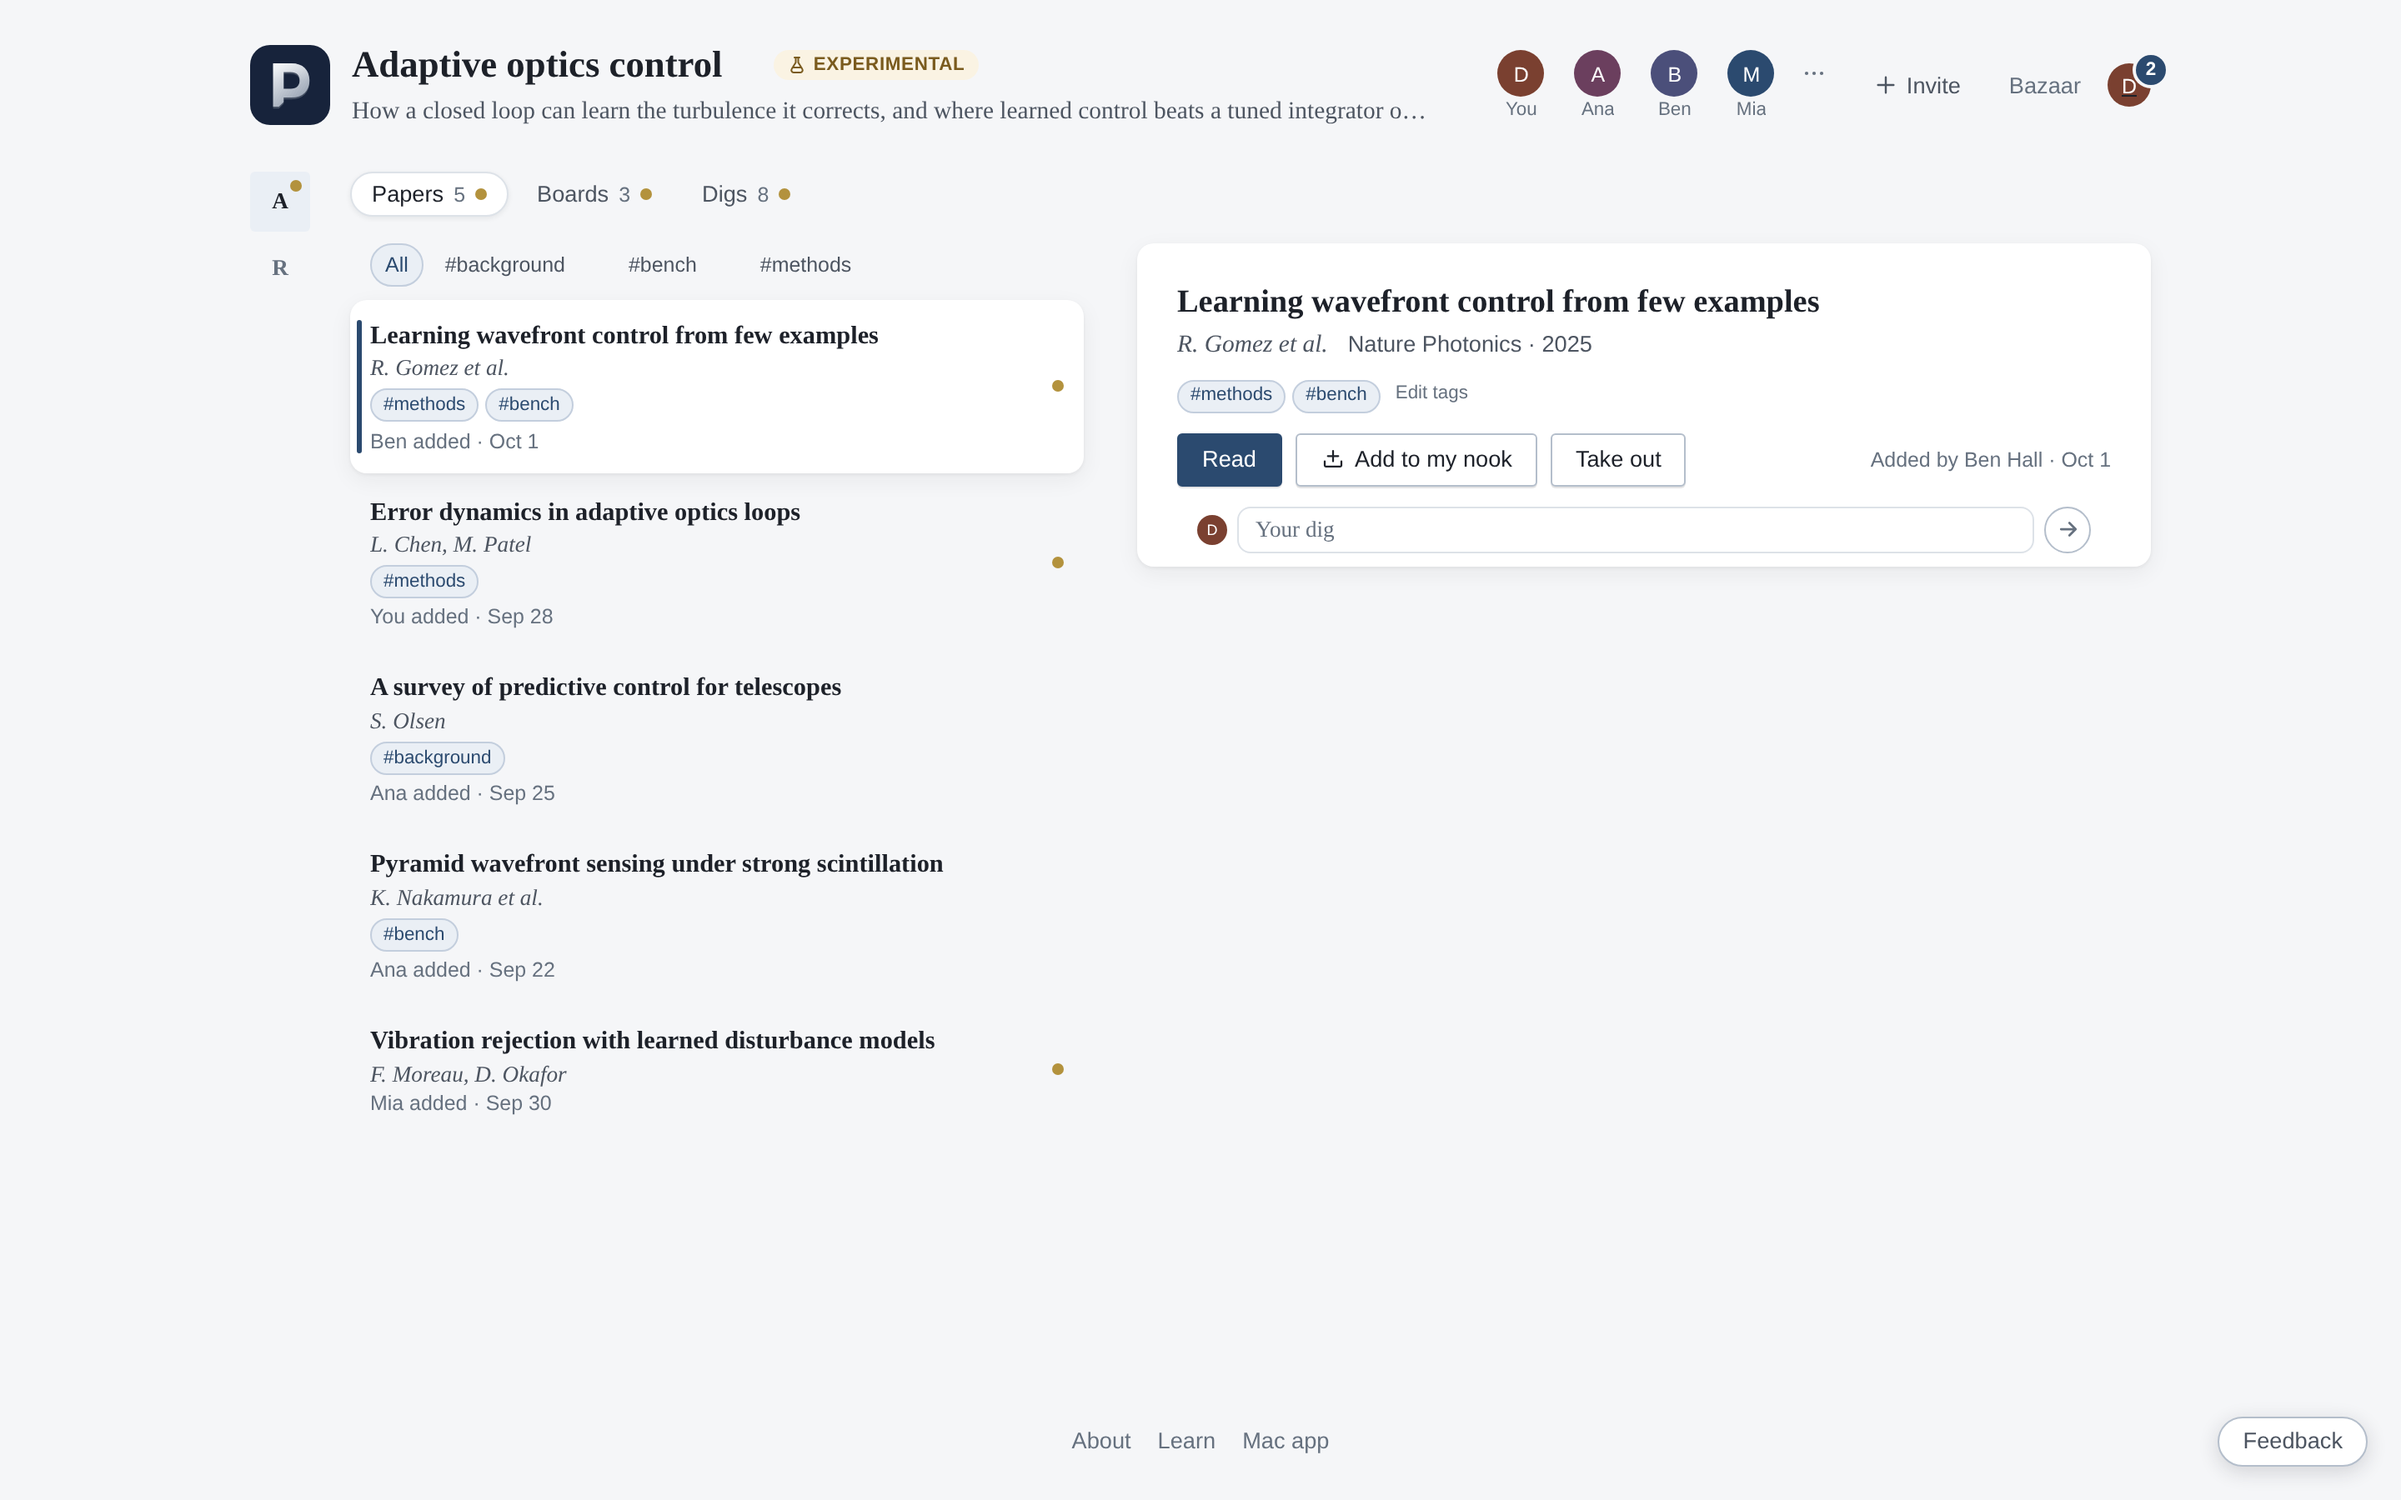
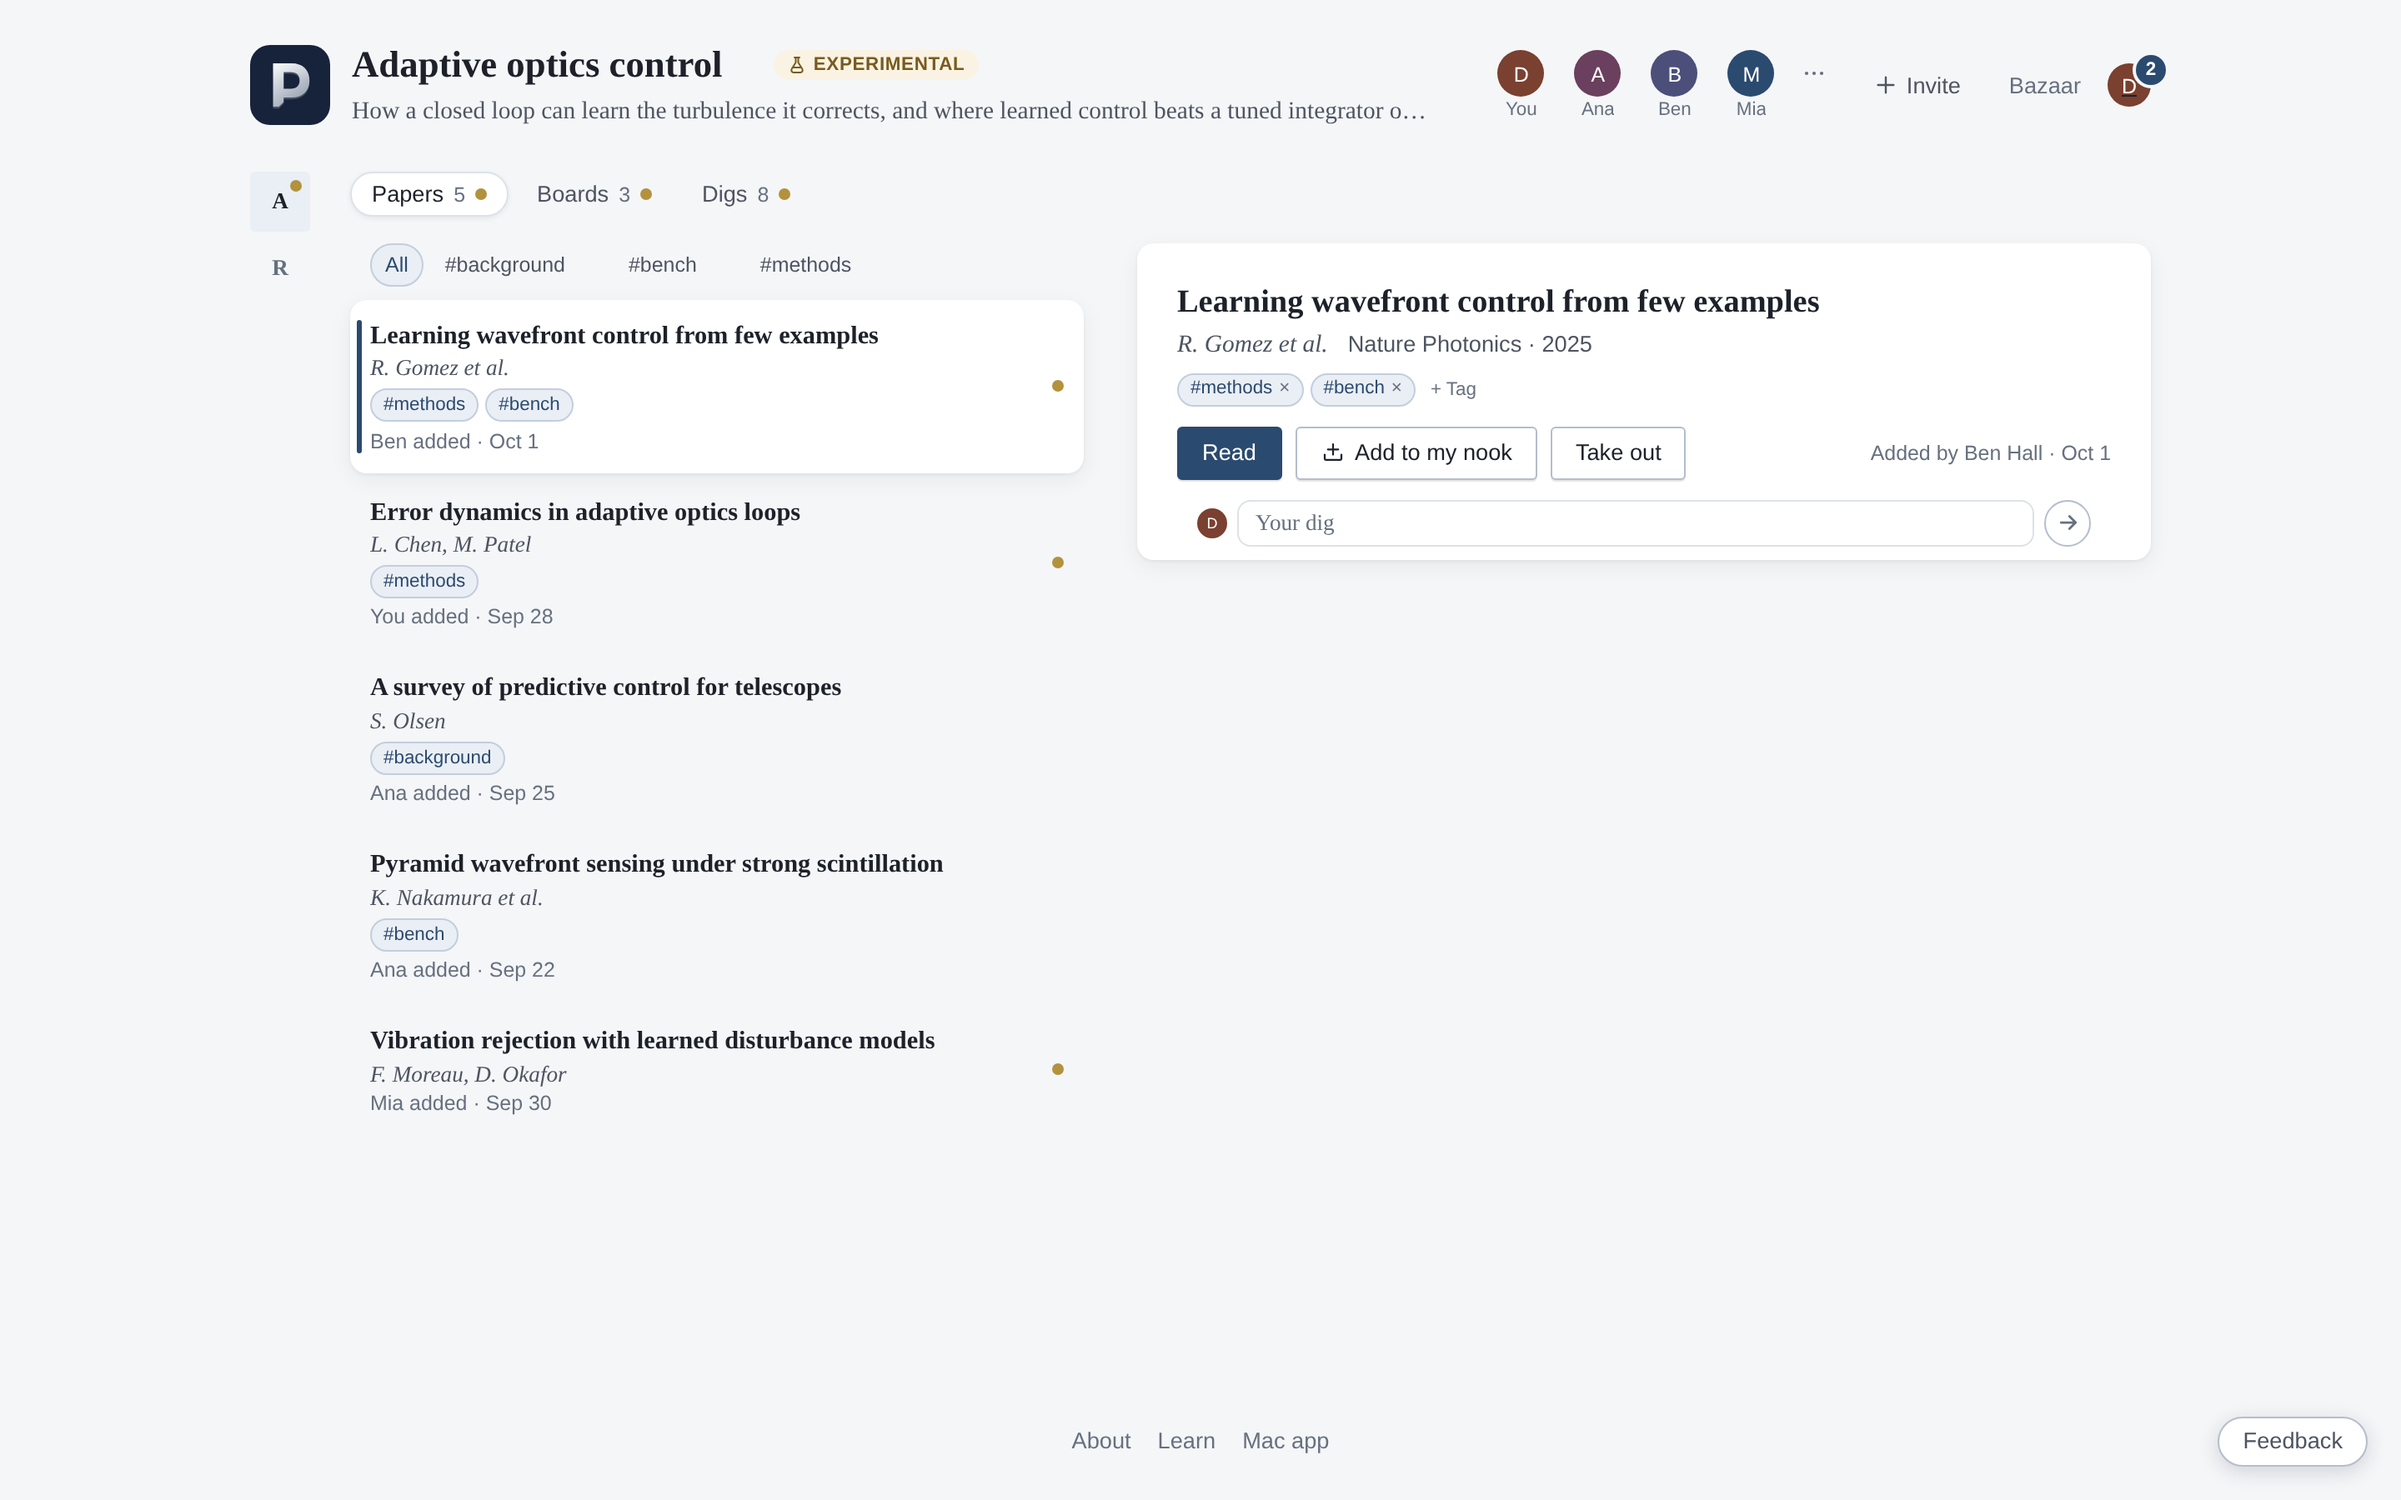
Make project tag editing inline

Changed region(s): [[0.5, 0.2489, 0.7188, 0.3733], [0.7812, 0.28, 0.875, 0.3111], [0.8438, 0.3422, 0.875, 0.3733]]

diff --git a/frontend/src/components/ProjectPage.jsx b/frontend/src/components/ProjectPage.jsx
@@ -491,9 +491,10 @@ function DeskTabs({ view, onView, counts, fresh }) {
   );
 }
 
-// A project's shared tags on one paper: quiet chips until a member opens
-// the editor, then the project's remaining vocabulary and a new name are
-// both ways to classify it. The mutation lives online with the project.
+// A project's shared tags on one paper: each chip can be removed in place,
+// and a small picker adds an existing name or creates one. It closes when
+// the choice is made or focus leaves it, so editing has no separate mode to
+// finish. The mutation lives online with the project.
 function ProjectPaperTags({ project, paper, onChanged }) {
   const [editing, setEditing] = useState(false);
   const [draft, setDraft] = useState('');
@@ -504,13 +505,15 @@ function ProjectPaperTags({ project, paper, onChanged }) {
   const available = (project.tags ?? []).filter((tag) => !assigned.has(tag.uuid)
     && (!query || tag.name.toLocaleLowerCase('en').includes(query)));
   const exact = (project.tags ?? []).find((tag) => tag.name.toLocaleLowerCase('en') === query);
-  const act = async (work) => {
+  const closePicker = () => { setEditing(false); setDraft(''); };
+  const act = async (work, close = false) => {
     if (busy) return;
     setBusy(true);
     setError(null);
     try {
       await work();
       setDraft('');
+      if (close) setEditing(false);
       onChanged();
     } catch (err) {
       setError(err.message);
@@ -518,45 +521,38 @@ function ProjectPaperTags({ project, paper, onChanged }) {
       setBusy(false);
     }
   };
-  const add = (tag) => act(() => addProjectPaperTag(project.uuid, paper.sha256, tag.uuid));
+  const add = (tag) => act(() => addProjectPaperTag(project.uuid, paper.sha256, tag.uuid), true);
   const create = () => act(async () => {
     const tag = await createProjectTag(project.uuid, draft.trim());
     await addProjectPaperTag(project.uuid, paper.sha256, tag.uuid);
-  });
+  }, true);
   return (
     <div className={`project-paper-tags${editing ? ' is-editing' : ''}`} onClick={(event) => event.stopPropagation()}>
       <span className="project-paper-tag-list">
-        {(paper.tags ?? []).map((tag) => <span className="project-paper-tag" key={tag.uuid}>#{tag.name}</span>)}
+        {(paper.tags ?? []).map((tag) => (
+          <button
+            type="button" className="project-paper-tag is-removable" key={tag.uuid} disabled={busy}
+            aria-label={`Remove ${tag.name} from this paper`}
+            onClick={() => act(() => removeProjectPaperTag(project.uuid, paper.sha256, tag.uuid))}
+          >#{tag.name}<span aria-hidden="true">×</span></button>
+        ))}
       </span>
       {!editing && (
         <button type="button" className="project-tag-edit" onClick={() => setEditing(true)}>
-          {(paper.tags ?? []).length ? 'Edit tags' : '+ Tag'}
+          + Tag
         </button>
       )}
       {editing && (
-        <div className="project-tag-editor">
-          <div className="project-tag-editor-head">
-            <span>Tags for this paper</span>
-            <button type="button" className="project-tag-done" onClick={() => { setEditing(false); setDraft(''); }}>Done</button>
-          </div>
-          {(paper.tags ?? []).length > 0 && (
-            <div className="project-tag-assigned">
-              {paper.tags.map((tag) => (
-                <button
-                  type="button" className="project-paper-tag is-removable" key={tag.uuid} disabled={busy}
-                  title={`Remove ${tag.name} from this paper`}
-                  onClick={() => act(() => removeProjectPaperTag(project.uuid, paper.sha256, tag.uuid))}
-                >#{tag.name} ×</button>
-              ))}
-            </div>
-          )}
-          <div className="project-tag-picker">
+        <div
+          className="project-tag-picker"
+          onBlur={(event) => { if (!event.currentTarget.contains(event.relatedTarget)) closePicker(); }}
+        >
             <input
               autoFocus className="project-tag-input" value={draft} maxLength={appLimits.text.tag_name}
-              placeholder="Find or create a tag…" aria-label={`Add a project tag to ${paper.title}`}
+              placeholder="Add a tag…" aria-label={`Add a project tag to ${paper.title}`}
               onChange={(event) => setDraft(event.target.value)}
               onKeyDown={(event) => {
-                if (event.key === 'Escape') { setEditing(false); setDraft(''); }
+                if (event.key === 'Escape') closePicker();
                 if (event.key !== 'Enter' || !query) return;
                 event.preventDefault();
                 if (exact && !assigned.has(exact.uuid)) add(exact);
@@ -577,10 +573,9 @@ function ProjectPaperTags({ project, paper, onChanged }) {
                 )}
               </div>
             )}
-          </div>
-          {error && <span className="project-tag-error" role="alert">{error}</span>}
         </div>
       )}
+      {error && <span className="project-tag-error" role="alert">{error}</span>}
     </div>
   );
 }

diff --git a/shared/applicationStyles.js b/shared/applicationStyles.js
@@ -5243,28 +5243,24 @@ button.project-quiet.project-danger:hover:not(:disabled) { background: var(--red
 .project-tag-filter-error { margin: 0 var(--space-3) var(--space-2); color: var(--red); font: var(--fs-xs) var(--font-ui); }
 .project-paper-tags { display: flex; flex-wrap: wrap; align-items: center; gap: 4px; margin-top: 4px; font-family: var(--font-ui); }
 .project-paper-tag-list { display: inline-flex; flex-wrap: wrap; gap: 4px; margin-top: 4px; }
+.project-paper-tags > .project-paper-tag-list { margin-top: 0; }
 .project-paper-tag { display: inline-flex; align-items: center; min-height: 20px; padding: 1px 7px; border: 1px solid var(--accent-line); border-radius: var(--radius-pill); background: var(--accent-soft); color: var(--accent); font: 500 var(--fs-2xs)/1.3 var(--font-ui); }
-.project-tag-edit, .project-tag-done { min-height: 20px; padding: 1px 5px; border: 0; background: transparent; box-shadow: none; color: var(--ink-faint); font: 500 var(--fs-2xs) var(--font-ui); }
-.project-tag-edit:hover:not(:disabled), .project-tag-edit:focus-visible, .project-tag-done:hover:not(:disabled), .project-tag-done:focus-visible { border: 0; background: transparent; color: var(--accent); }
-.project-paper-tags.is-editing { display: block; }
-.project-paper-tags.is-editing > .project-paper-tag-list { display: none; }
-.project-tag-editor { display: grid; gap: var(--space-2); max-width: 28rem; padding: var(--space-3); border: 1px solid var(--line); border-radius: var(--radius-lg); background: var(--card); box-shadow: var(--shadow-sm); }
-.project-tag-editor-head { display: flex; align-items: center; justify-content: space-between; color: var(--ink-soft); font: 500 var(--fs-xs) var(--font-ui); }
-.project-tag-assigned { display: flex; flex-wrap: wrap; gap: 4px; }
-button.project-paper-tag.is-removable { box-shadow: none; }
+.project-tag-edit { min-height: 20px; padding: 1px 5px; border: 0; background: transparent; box-shadow: none; color: var(--ink-faint); font: 500 var(--fs-2xs) var(--font-ui); }
+.project-tag-edit:hover:not(:disabled), .project-tag-edit:focus-visible { border: 0; background: transparent; color: var(--accent); }
+button.project-paper-tag.is-removable { gap: 4px; box-shadow: none; }
+button.project-paper-tag.is-removable span { color: var(--ink-faint); }
 button.project-paper-tag.is-removable:hover:not(:disabled), button.project-paper-tag.is-removable:focus-visible { border-color: var(--red); background: var(--red-soft); color: var(--red); }
-.project-tag-picker { position: relative; }
-.project-tag-input { width: 100%; min-height: 34px; box-sizing: border-box; padding: 5px 9px; border-color: var(--line-strong); border-radius: var(--radius); font: var(--fs-xs) var(--font-ui); }
+.project-tag-picker { position: relative; flex: 1 1 12rem; max-width: 18rem; }
+.project-tag-input { width: 100%; min-height: 26px; box-sizing: border-box; padding: 3px 8px; border-color: var(--line-strong); border-radius: var(--radius); font: var(--fs-xs) var(--font-ui); }
 .project-tag-input:focus { border-color: var(--accent); box-shadow: 0 0 0 2px var(--accent-soft); outline: 0; }
-.project-tag-options { display: grid; max-height: 10rem; margin-top: 3px; overflow-y: auto; border: 1px solid var(--line); border-radius: var(--radius); background: var(--card); }
+.project-tag-options { position: absolute; z-index: 3; top: calc(100% + 3px); right: 0; left: 0; display: grid; max-height: 10rem; overflow-y: auto; border: 1px solid var(--line); border-radius: var(--radius); background: var(--card); box-shadow: var(--shadow-sm); }
 .project-tag-options button { display: flex; align-items: center; justify-content: space-between; min-height: 30px; padding: 4px 8px; border: 0; border-radius: 0; background: transparent; box-shadow: none; color: var(--ink); font: var(--fs-xs) var(--font-ui); text-align: left; }
 .project-tag-options button + button { border-top: 1px solid var(--line); }
 .project-tag-options button:hover:not(:disabled), .project-tag-options button:focus-visible { border-color: var(--line); background: var(--paper-sunken); color: var(--accent); }
 .project-tag-options button span:last-child { color: var(--ink-faint); font-size: var(--fs-2xs); }
 .project-tag-options .project-tag-create { color: var(--accent); }
-.project-tag-error { color: var(--red); font: var(--fs-2xs) var(--font-ui); }
+.project-tag-error { flex-basis: 100%; color: var(--red); font: var(--fs-2xs) var(--font-ui); }
 .paper-brief-tags .project-paper-tags { margin-top: var(--space-1); }
-.paper-brief-tags .project-tag-editor { max-width: 34rem; }
 @media (hover: none) {
   .project-tag-filter > .project-tag-delete { opacity: 1; }
 }

diff --git a/frontend/src/projectTags.test.js b/frontend/src/projectTags.test.js
@@ -18,7 +18,8 @@ test('a paper can take an existing project tag or make a new one', () => {
   assert.match(tags, /createProjectTag\(project\.uuid, draft\.trim\(\)\)/);
   assert.match(tags, /addProjectPaperTag\(project\.uuid, paper\.sha256, tag\.uuid\)/);
   assert.match(tags, /removeProjectPaperTag\(project\.uuid, paper\.sha256, tag\.uuid\)/);
-  assert.match(tags, /placeholder="Find or create a tag…"/);
+  assert.match(tags, /placeholder="Add a tag…"/);
+  assert.doesNotMatch(tags, />Done<|project-tag-editor/);
 });
 
 test('paper rows show tags while editing belongs to the open brief', () => {
